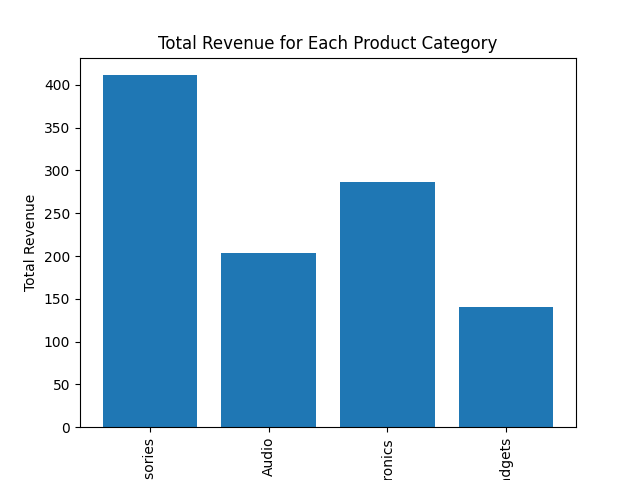
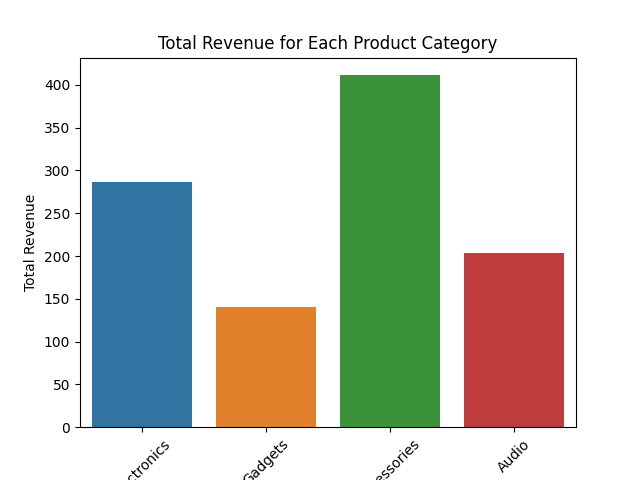
Fix logic on sqlextract

diff --git a/src/app/chat/page.tsx b/src/app/chat/page.tsx
@@ -12,7 +12,6 @@ import { TokenCountContext } from "@/components/token";
 import { Chat } from "@/types/Chat";
 import { ChatMessage } from "@/types/ChatMessage";
 import { extractSqlFromMessages } from "lib/extractSqlFromMessages";
-import { useSession } from "next-auth/react";
 import { useRouter } from "next/navigation";
 import { useContext, useEffect, useState } from "react";
 import { toast } from 'react-hot-toast';
@@ -22,17 +21,13 @@ import { v4 as uuidv4 } from 'uuid';
 const Page = () => {
   const [sidebarOpened, setSidebarOpened] = useState(false);
   const [Loading, setLoading] = useState(false);
-  // const [chatList, setChatList] = useState<Chat[]>([]);
   const [chatList, setChatList] = useLocalStorage<Chat[]>('chatList', []);
   const [chatActiveId, setChatActiveId] = useState<string>("");
   const [chatActive, setChatActive] = useState<Chat>();
-  const [image, setImage] = useState<string | null>(null);
+  const [pythonCode, setPythonCode] = useState("");
   const { setCurrentMessageToken } = useContext(TokenCountContext); // use context
   const [activeChatMessagesCount, setActiveChatMessagesCount] = useState(0);
   const router = useRouter();
-  const session = useSession();
-
-  console.log(session);
 
   useEffect(() => {
     const activeChat = chatList.find(item => item.id === chatActiveId);
@@ -47,9 +42,6 @@ const Page = () => {
     if (Loading) fetchResponse();
   }, [Loading]);
 
-  // Add the state variables at the start of your component.
-  const [pythonCode, setPythonCode] = useState("");
-  const [sqlCode, setSqlCode] = useState("");
 
   const sendToFastAPI = async (pythonCode: string) => {
     if (pythonCode) {
@@ -90,11 +82,10 @@ const Page = () => {
       const imageData = await response.blob();
 
       console.log("Response Data", imageData)
-      // const base64Image = responseData.base64String;  // Here's the change
-      // console.log("Base64 Image", base64Image)
       const imageUrl = URL.createObjectURL(imageData);
 
       console.log("Image URL", imageUrl)
+
       // Add new chat message with the image
       let newMessage: ChatMessage = {
         id: uuidv4(),
@@ -104,6 +95,7 @@ const Page = () => {
 
       fullChat[chatIndex].messages = [...fullChat[chatIndex].messages, newMessage];
       setChatList([...fullChat]);
+      console.log("fullChat List", fullChat)
     }
   }
 
@@ -153,18 +145,12 @@ const Page = () => {
         if (done) {
           // Once streaming is done, we handle the message content
           const pythonCodeRegex = /```python([\s\S]*?)```/g;
-          const sqlCodeRegex = /```sql([\s\S]*?)```/g;
-          let pythonCodeMatch, sqlCodeMatch;
-          let pythonCode = '', sqlCode = '';
+          let pythonCodeMatch;
+          let pythonCode = '';
           while ((pythonCodeMatch = pythonCodeRegex.exec(messageObject.content)) !== null) {
             pythonCode = pythonCodeMatch[1].trim();
           }
-          while ((sqlCodeMatch = sqlCodeRegex.exec(messageObject.content)) !== null) {
-            sqlCode = sqlCodeMatch[1].trim();
-          }
-
           setPythonCode(pythonCode);
-          setSqlCode(sqlCode);
 
           // Call the new function here
           sendToFastAPI(pythonCode);
@@ -181,13 +167,10 @@ const Page = () => {
         setChatList([...fullChat]);
       }
     }
-    // console.log("Python   ", pythonCode)
-    // console.log("SQL   ", sqlCode)
     setLoading(false);
   }
 
   console.log("Python   ", pythonCode)
-  console.log("SQL   ", sqlCode)
   console.log("Chat List", chatList)
 
 
@@ -202,7 +185,7 @@ const Page = () => {
   }
 
   const handleSendMessage = (message: string) => {
-    if (activeChatMessagesCount >= 8) {
+    if (activeChatMessagesCount >= 10) {
       toast((t) => <CustomToast message='You have reached the maximum number of messages for this chat' />, {
         duration: 4000,
         position: 'top-center',
@@ -276,7 +259,7 @@ const Page = () => {
 
         <Footer
           onSendMessage={handleSendMessage}
-          disabled={Loading || activeChatMessagesCount >= 10}
+          disabled={Loading || activeChatMessagesCount >= 12}
         />
 
       </section>

diff --git a/lib/extractSqlFromMessages.ts b/lib/extractSqlFromMessages.ts
@@ -3,26 +3,36 @@ import { ChatMessage } from "@/types/ChatMessage"; // Assume ChatMessage type is
 export const extractSqlFromMessages = (
   messages: ChatMessage[]
 ): string | null => {
+  // Define SQL starting keywords
+  const sqlKeywords = ["SELECT", "WITH", "UPDATE", "DELETE", "INSERT"];
+
   for (const message of messages) {
     if (message.author === "assistant") {
       // Split the content by newlines and trim each line
       const lines = message.content.split("\n").map((line) => line.trim());
+      console.log(lines);
+      // Find the start and end of the code block
+      const codeStartIndex = lines.findIndex((line) => line.startsWith("```"));
+      const codeEndIndex = lines.lastIndexOf("```");
 
-      // Find the start and end of the SQL block
-      const sqlStartIndex = lines.findIndex((line) =>
-        line.startsWith("```sql")
-      );
-      const sqlEndIndex = lines.lastIndexOf("```");
+      // If a code block is found
+      if (codeStartIndex >= 0 && codeEndIndex > codeStartIndex) {
+        // Extract the code block
+        const codeBlock = lines
+          .slice(codeStartIndex + 1, codeEndIndex)
+          .join("\n");
 
-      // If a SQL block is found
-      if (sqlStartIndex >= 0 && sqlEndIndex > sqlStartIndex) {
-        // Extract the SQL query
-        const sqlCode = lines.slice(sqlStartIndex + 1, sqlEndIndex).join(" ");
-        return sqlCode;
+        console.log(codeBlock);
+        // If the code block starts with any SQL keyword, assume it's SQL
+        if (
+          sqlKeywords.some((keyword) => codeBlock.trim().startsWith(keyword))
+        ) {
+          return codeBlock;
+        }
       }
     }
   }
-
+  console.log(messages);
   // Return null if no SQL code was found
   return null;
 };

diff --git a/utils/pinecone-client.ts b/utils/pinecone-client.ts
@@ -1,7 +1,5 @@
 import { PineconeClient } from "@pinecone-database/pinecone";
 
-// const PINECONE_INDEX_NAME = "test-index";
-
 if (!process.env.PINECONE_ENVIRONMENT || !process.env.PINECONE_API_KEY) {
   throw new Error("Pinecone environment or api key vars missing");
 }

diff --git a/code-plugin/temp.py b/code-plugin/temp.py
@@ -1,10 +1,11 @@
+
 import os
 import snowflake.connector
 import pandas as pd
 import matplotlib
-
-matplotlib.use("Agg")
+matplotlib.use('Agg')
 import matplotlib.pyplot as plt
+import seaborn as sns
 
 conn = snowflake.connector.connect(
     user=os.environ["USER_NAME"],
@@ -17,27 +18,29 @@ conn = snowflake.connector.connect(
 )
 
 cur = conn.cursor()
-cur.execute("USE DATABASE " + os.environ["DATABASE"])
-cur.execute("USE SCHEMA " + os.environ["SCHEMA"])
-cur.execute(
-    "SELECT p.CATEGORY, SUM(t.PRICE * t.QUANTITY) AS TOTAL_REVENUE FROM STREAM_HACKATHON.STREAMLIT.PRODUCTS p JOIN STREAM_HACKATHON.STREAMLIT.TRANSACTIONS t ON p.PRODUCT_ID = t.PRODUCT_ID JOIN STREAM_HACKATHON.STREAMLIT.ORDER_DETAILS o ON t.ORDER_ID = o.ORDER_ID JOIN STREAM_HACKATHON.STREAMLIT.PAYMENTS pm ON o.ORDER_ID = pm.ORDER_ID GROUP BY p.CATEGORY;"
-)
+cur.execute('USE DATABASE ' + os.environ["DATABASE"])
+cur.execute('USE SCHEMA ' + os.environ["SCHEMA"])
+cur.execute(f"""
+SELECT p.CATEGORY, SUM(t.PRICE * t.QUANTITY) AS TOTAL_REVENUE
+FROM STREAM_HACKATHON.STREAMLIT.PRODUCTS p
+JOIN STREAM_HACKATHON.STREAMLIT.TRANSACTIONS t ON p.PRODUCT_ID = t.PRODUCT_ID
+JOIN STREAM_HACKATHON.STREAMLIT.ORDER_DETAILS o ON t.ORDER_ID = o.ORDER_ID
+JOIN STREAM_HACKATHON.STREAMLIT.PAYMENTS pm ON o.ORDER_ID = pm.ORDER_ID
+GROUP BY p.CATEGORY;
+""")
 all_rows = cur.fetchall()
 field_names = [i[0] for i in cur.description]
 df = pd.DataFrame(all_rows)
 df.columns = field_names
 
+import seaborn as sns
 import matplotlib.pyplot as plt
 
-# Assuming the data is already stored in a DataFrame called df
-# Group the data by category and calculate the total revenue for each category
-revenue_by_category = df.groupby("CATEGORY")["TOTAL_REVENUE"].sum().reset_index()
-
-# Create the bar plot
-plt.bar(revenue_by_category["CATEGORY"], revenue_by_category["TOTAL_REVENUE"])
-plt.xlabel("Category")
-plt.ylabel("Total Revenue")
-plt.title("Total Revenue for Each Product Category")
-plt.xticks(rotation=90)
+# Assuming the query result is stored in a pandas DataFrame called 'df'
+sns.barplot(x='CATEGORY', y='TOTAL_REVENUE', data=df)
+plt.xlabel('Product Category')
+plt.ylabel('Total Revenue')
+plt.title('Total Revenue for Each Product Category')
+plt.xticks(rotation=45)
 plt.show()
 plt.savefig("output.png")

diff --git a/code-plugin/main.py b/code-plugin/main.py
@@ -37,37 +37,37 @@ def fastapi_app():
 
             # Prepare the script for getting data from Snowflake
             snowflake_script = (
-                '''
-    import os
-    import snowflake.connector
-    import pandas as pd
-    import matplotlib
-    matplotlib.use('Agg')
-    import matplotlib.pyplot as plt
-    import seaborn as sns
+    f'''
+import os
+import snowflake.connector
+import pandas as pd
+import matplotlib
+matplotlib.use('Agg')
+import matplotlib.pyplot as plt
+import seaborn as sns
 
-    conn = snowflake.connector.connect(
-        user=os.environ["USER_NAME"],
-        password=os.environ["PASSWORD"],
-        account=os.environ["ACCOUNT"],
-        warehouse=os.environ["WAREHOUSE"],
-        role=os.environ["ROLE"],
-        database=os.environ["DATABASE"],
-        schema=os.environ["SCHEMA"],
-    )
+conn = snowflake.connector.connect(
+    user=os.environ["USER_NAME"],
+    password=os.environ["PASSWORD"],
+    account=os.environ["ACCOUNT"],
+    warehouse=os.environ["WAREHOUSE"],
+    role=os.environ["ROLE"],
+    database=os.environ["DATABASE"],
+    schema=os.environ["SCHEMA"],
+)
 
-    cur = conn.cursor()
-    cur.execute('USE DATABASE ' + os.environ["DATABASE"])
-    cur.execute('USE SCHEMA ' + os.environ["SCHEMA"])
-    cur.execute("'''
-                + script.sql
-                + """")
-    all_rows = cur.fetchall()
-    field_names = [i[0] for i in cur.description]
-    df = pd.DataFrame(all_rows)
-    df.columns = field_names
-    """
-            )
+cur = conn.cursor()
+cur.execute('USE DATABASE ' + os.environ["DATABASE"])
+cur.execute('USE SCHEMA ' + os.environ["SCHEMA"])
+cur.execute(f\"\"\"
+{script.sql}
+\"\"\")
+all_rows = cur.fetchall()
+field_names = [i[0] for i in cur.description]
+df = pd.DataFrame(all_rows)
+df.columns = field_names
+'''
+)
             # Combine the Snowflake script and the user's script into one Python file
             combined_script = (
                 snowflake_script + "\n" + script.script + '\nplt.savefig("output.png")'

diff --git a/code-plugin/main-fk.py b/code-plugin/main-fk.py
@@ -36,7 +36,7 @@ async def execute(script: Script):
 
         # Prepare the script for getting data from Snowflake
         snowflake_script = (
-            '''
+    f'''
 import os
 import snowflake.connector
 import pandas as pd
@@ -58,19 +58,19 @@ conn = snowflake.connector.connect(
 cur = conn.cursor()
 cur.execute('USE DATABASE ' + os.environ["DATABASE"])
 cur.execute('USE SCHEMA ' + os.environ["SCHEMA"])
-cur.execute("'''
-            + script.sql
-            + """")
+cur.execute(f\"\"\"
+{script.sql}
+\"\"\")
 all_rows = cur.fetchall()
 field_names = [i[0] for i in cur.description]
 df = pd.DataFrame(all_rows)
 df.columns = field_names
-"""
+'''
         )
+            
         # Combine the Snowflake script and the user's script into one Python file
-        combined_script = (
-            snowflake_script + "\n" + script.script + '\nplt.savefig("output.png")'
-        )
+        combined_script = snowflake_script + "\n" + script.script + '\nplt.savefig("output.png")'
+        
 
         # Write the combined script to a temporary Python file
         with open("temp.py", "w") as file:
